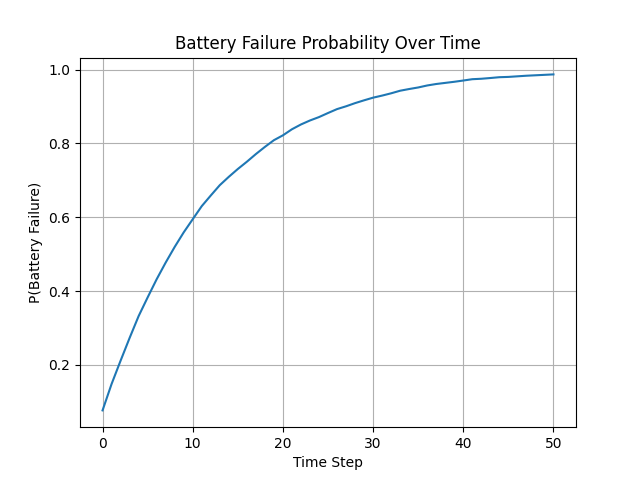
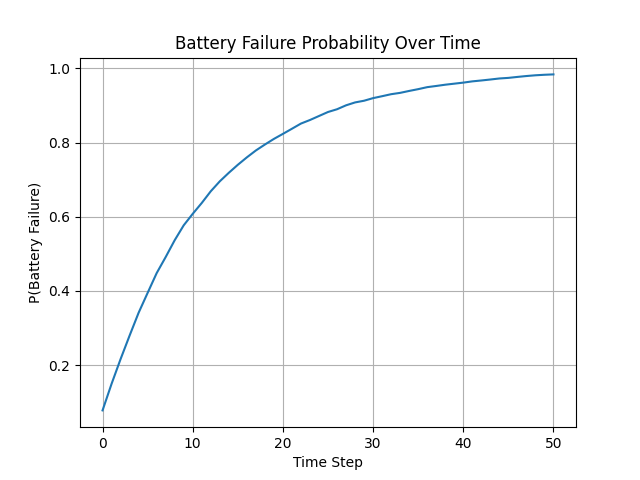
update DBNbattery

diff --git a/DBN_battery.py b/DBN_battery.py
@@ -1,12 +1,26 @@
 from pgmpy.models import DynamicBayesianNetwork as DBN
 from pgmpy.factors.discrete import TabularCPD
 import numpy as np
-import matplotlib.pyplot as plt
 import os
+import time
+from contextlib import contextmanager
+
+os.environ.setdefault("MPLCONFIGDIR", "/tmp/matplotlib")
+
+import matplotlib
+
+matplotlib.use("Agg")
+import matplotlib.pyplot as plt
 
 
 def sample_binary(p_true):
     return 1 if np.random.rand() < p_true else 0
+
+
+IMG_DIR = "img"
+NUM_RUNS = 5000
+NUM_STEPS = 50
+SEED = int(time.time()) % 10000
 
 
 # Create DBN
@@ -60,16 +74,16 @@ cpd_aging_t = TabularCPD(
 
 cpd_short_t = TabularCPD(
     ("ShortCircuit", 1), 2,
-    [[0.98, 0.70, 0.40, 0.10],
-     [0.02, 0.30, 0.60, 0.90]],
+    [[0.98, 0.85, 0.40, 0.10],
+     [0.02, 0.15, 0.60, 0.90]],
     evidence=[("ShortCircuit", 0), ("Aging", 1)],
     evidence_card=[2, 2]
 )
 
 cpd_thermal_t = TabularCPD(
     ("ThermalRunaway", 1), 2,
-    [[0.99, 0.75, 0.50, 0.10],
-     [0.01, 0.25, 0.50, 0.90]],
+    [[0.99, 0.90, 0.50, 0.10],
+     [0.01, 0.10, 0.50, 0.90]],
     evidence=[("ThermalRunaway", 0), ("Aging", 1)],
     evidence_card=[2, 2]
 )
@@ -100,6 +114,61 @@ model.check_model()
 #get prob of state 1
 def get_prob_true(cpd, *parent_states):
     return cpd.values[(1, *parent_states)]
+
+
+def set_prob_true(cpd, parent_states, p_true):
+    p_true = float(p_true)
+    if not 0 <= p_true <= 1:
+        raise ValueError(f"Probability must be in [0, 1], got {p_true}")
+
+    key = (slice(None), *parent_states)
+    cpd.values[key] = [1 - p_true, p_true]
+
+
+@contextmanager
+def temporary_cpd_values():
+    cpds = [
+        cpd_aging_0,
+        cpd_short_0,
+        cpd_thermal_0,
+        cpd_battery_0,
+        cpd_aging_t,
+        cpd_short_t,
+        cpd_thermal_t,
+        cpd_battery_t,
+    ]
+    saved_values = [cpd.values.copy() for cpd in cpds]
+    try:
+        yield
+    finally:
+        for cpd, values in zip(cpds, saved_values):
+            cpd.values = values
+
+
+def apply_parameter_change(parameter, value):
+    parameter_setters = {
+        # P(Aging_{t+1}=1 | Aging_t=0). Lowering this slows aging accumulation.
+        "aging_onset": lambda v: set_prob_true(cpd_aging_t, (0,), v),
+        # P(BatteryFailure_{t+1}=1 | no short, no thermal, no prior failure).
+        "base_battery_hazard": lambda v: set_prob_true(cpd_battery_t, (0, 0, 0), v),
+        # Same baseline condition at t=0.
+        "initial_base_battery_failure": lambda v: set_prob_true(cpd_battery_0, (0, 0), v),
+        # Fault formation under aging, when the fault was absent at the previous step.
+        "short_given_aging": lambda v: set_prob_true(cpd_short_t, (0, 1), v),
+        "thermal_given_aging": lambda v: set_prob_true(cpd_thermal_t, (0, 1), v),
+        # Fault persistence under aging.
+        "short_persistence_given_aging": lambda v: set_prob_true(cpd_short_t, (1, 1), v),
+        "thermal_persistence_given_aging": lambda v: set_prob_true(cpd_thermal_t, (1, 1), v),
+        # Battery failure response when no prior battery failure exists.
+        "battery_given_short": lambda v: set_prob_true(cpd_battery_t, (1, 0, 0), v),
+        "battery_given_thermal": lambda v: set_prob_true(cpd_battery_t, (0, 1, 0), v),
+        "battery_given_short_and_thermal": lambda v: set_prob_true(cpd_battery_t, (1, 1, 0), v),
+    }
+
+    if parameter not in parameter_setters:
+        valid = ", ".join(sorted(parameter_setters))
+        raise ValueError(f"Unknown parameter '{parameter}'. Valid options: {valid}")
+    parameter_setters[parameter](value)
 
 # Sample initial state from t=0 CPDs
 def sample_initial_state():
@@ -136,7 +205,10 @@ def sample_next_state(state):
     }
 
 #monte carlo
-def monte_carlo(num_runs=5000, num_steps=50):
+def monte_carlo(num_runs=NUM_RUNS, num_steps=NUM_STEPS, seed=SEED):
+    if seed is not None:
+        np.random.seed(seed)
+
     battery_hist = np.zeros((num_runs, num_steps + 1))
 
     for i in range(num_runs):
@@ -150,21 +222,68 @@ def monte_carlo(num_runs=5000, num_steps=50):
     return battery_hist.mean(axis=0)
 
 
+def plot_failure_curve(failure_prob, file_name="battery_sys_fail.png"):
+    plt.figure()
+    plt.plot(failure_prob)
+    plt.xlabel("Time Step")
+    plt.ylabel("P(Battery Failure)")
+    plt.title("Battery Failure Probability Over Time")
+    plt.grid(True)
+    os.makedirs(IMG_DIR, exist_ok=True)
+    plt.savefig(os.path.join(IMG_DIR, file_name))
+    plt.close()
+
+
+def sensitivity_analysis(parameter, values, num_runs=NUM_RUNS, num_steps=NUM_STEPS, seed=SEED):
+    results = {}
+    with temporary_cpd_values():
+        for value in values:
+            apply_parameter_change(parameter, value)
+            results[value] = monte_carlo(
+                num_runs=num_runs,
+                num_steps=num_steps,
+                seed=seed,
+            )
+    return results
+
+
+def plot_sensitivity(parameter, values, num_runs=NUM_RUNS, num_steps=NUM_STEPS, seed=SEED):
+    results = sensitivity_analysis(
+        parameter,
+        values,
+        num_runs=num_runs,
+        num_steps=num_steps,
+        seed=seed,
+    )
+
+    plt.figure()
+    for value, failure_prob in results.items():
+        plt.plot(failure_prob, label=f"{parameter}={value:g}")
+    plt.xlabel("Time Step")
+    plt.ylabel("P(Battery Failure)")
+    plt.title(f"Sensitivity: {parameter}")
+    plt.grid(True)
+    plt.legend()
+    os.makedirs(IMG_DIR, exist_ok=True)
+    file_name = f"sensitivity_{parameter}.png"
+    plt.savefig(os.path.join(IMG_DIR, file_name))
+    plt.close()
+    return results
+
+
 if __name__ == "__main__":
+    print(f"Using random seed: {SEED}")
     failure_prob = monte_carlo()
     print(failure_prob)
+    plot_failure_curve(failure_prob)
 
-
-
-#plotting
-plt.plot(failure_prob)
-plt.xlabel("Time Step")
-plt.ylabel("P(Battery Failure)")
-plt.title("Battery Failure Probability Over Time")
-plt.grid(True)
-
-#save figure
-folder_path = "img/"
-file_name = "battery_sys_fail.png"
-os.makedirs(folder_path, exist_ok=True)
-plt.savefig(os.path.join(folder_path, file_name))
+    plot_sensitivity(
+        "base_battery_hazard",
+        values=[0.001, 0.003, 0.01, 0.03],
+        num_runs=1000,
+    )
+    plot_sensitivity(
+        "aging_onset",
+        values=[0.005, 0.01, 0.02, 0.05],
+        num_runs=1000,
+    )
